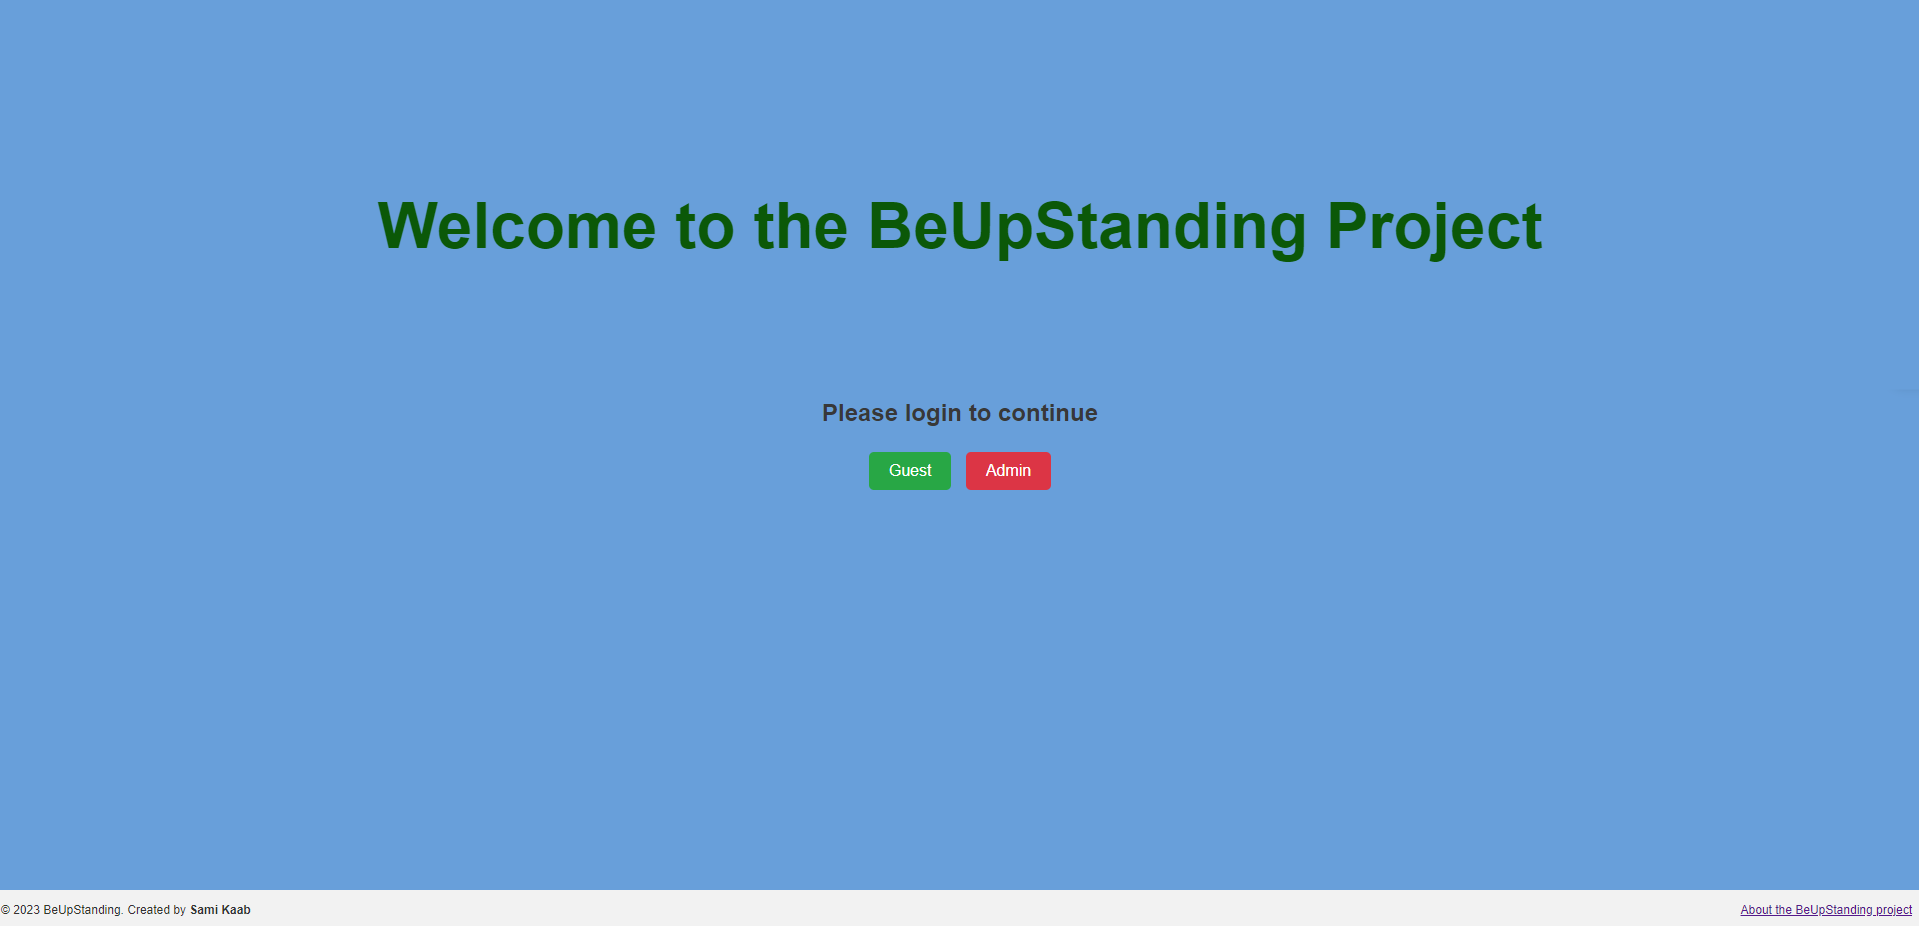
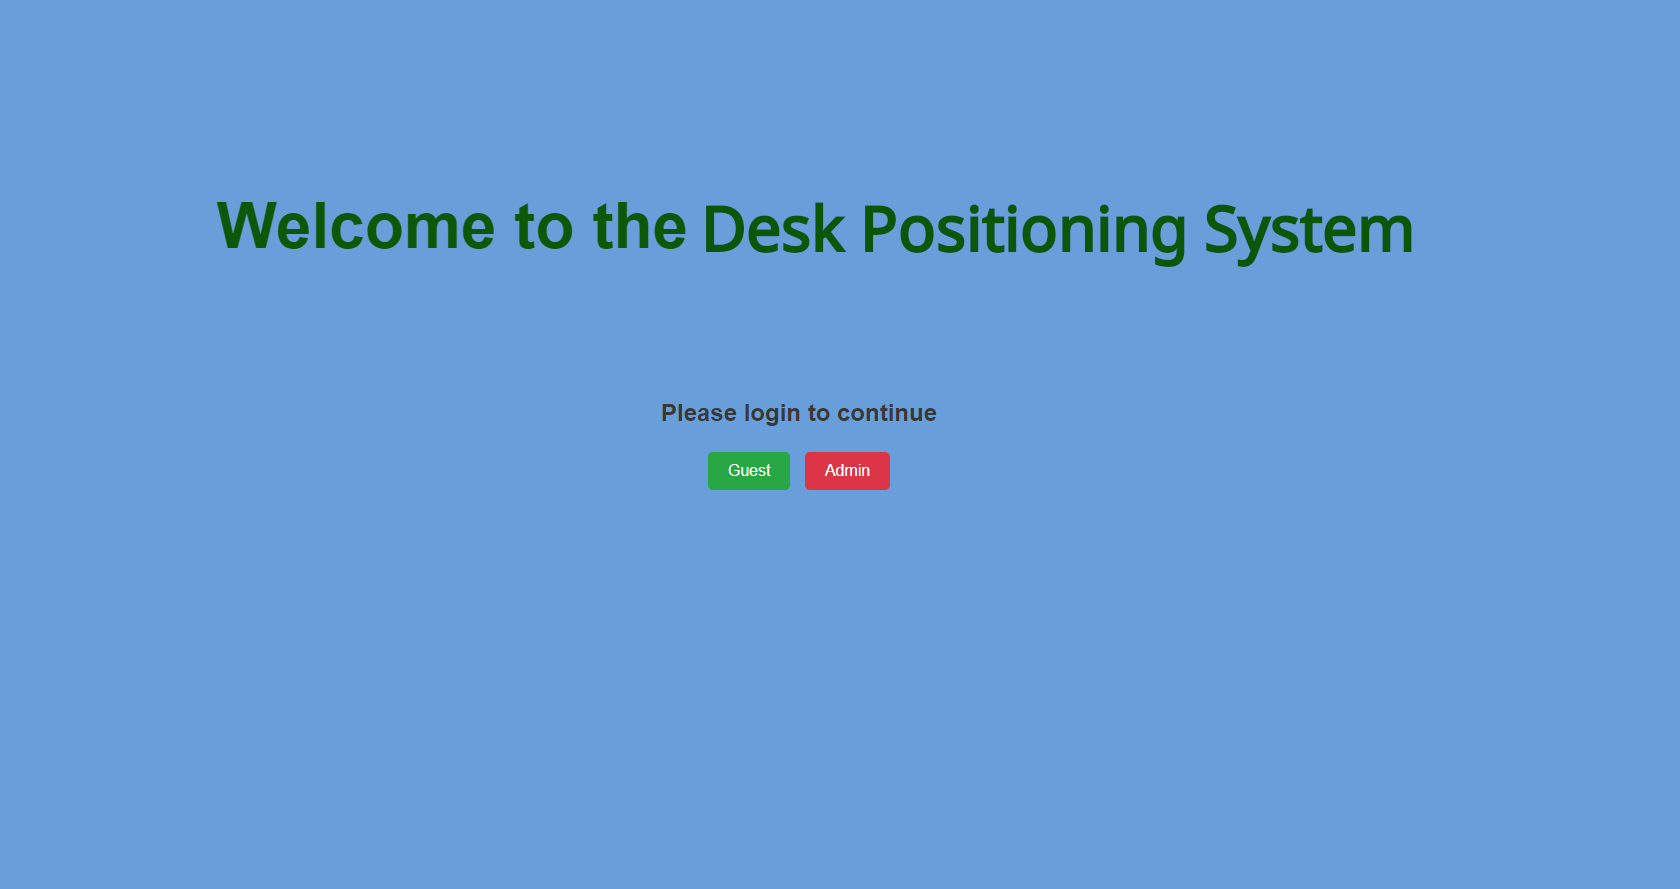
changes name of device in webapp and local url

Changed region(s): [[0.0, 0.9415, 1.0, 1.0], [0.1238, 0.2126, 0.8667, 0.3037], [0.4024, 0.4252, 0.5881, 0.5771]]

diff --git a/Firmware/templates/guest_dashboard.html b/Firmware/templates/guest_dashboard.html
@@ -2,7 +2,7 @@
 <html lang="en">
 <head>
     <meta charset="UTF-8">
-    <title>BeUpStanding</title>
+    <title>Desk Positioning System</title>
     <script src="https://cdn.plot.ly/plotly-latest.min.js"></script>
     <link rel="stylesheet" href="{{ url_for('static', filename='css/guest_dashboard_styles.css') }}">
     <link rel="stylesheet" href="https://cdnjs.cloudflare.com/ajax/libs/font-awesome/6.4.0/css/all.min.css">
@@ -12,7 +12,7 @@
 <body>
     <header>
         <h1>
-            <button id="Home">BeUpStanding</button>
+            <button id="Home">Desk Positioning System</button>
             <!--redirect to home page-->
             <script>
                 document.getElementById("Home").onclick = function () {
@@ -95,7 +95,7 @@
     <!-- end of the form -->
     <footer>
         <div class="footer-content">
-            <p>&copy; 2023 BeUpStanding. Created by <span class="author-name">Sami Kaab</span><a  class="about" href="https://www.beupstanding.com.au/about-us">About the BeUpstanding project</a></p>
+            <p><a  class="about" href="https://github.com/NeuroRehack/Desk-Positioning-System">About the Desk Positioning System</a></p>
         </div>
     </footer>
 </body>

diff --git a/Firmware/templates/admin_dashboard.html b/Firmware/templates/admin_dashboard.html
@@ -2,7 +2,7 @@
 <html lang="en">
 <head>
     <meta charset="UTF-8">
-    <title>BeUpStanding</title>
+    <title>Desk Positioning System</title>
     <script src="https://cdn.plot.ly/plotly-latest.min.js"></script>
     <link rel="stylesheet" href="{{ url_for('static', filename='css/styles.css') }}">
     <link rel="stylesheet" href="https://cdnjs.cloudflare.com/ajax/libs/font-awesome/6.4.0/css/all.min.css">
@@ -11,7 +11,7 @@
 <body>
     <header>
         <h1>
-            <button id="Home">BeUpStanding</button>
+            <button id="Home">Desk Positioning System</button>
             <!--redirect to home page-->
             <script>
                 document.getElementById("Home").onclick = function () {
@@ -229,7 +229,7 @@
     <!-- end of the form -->
     <footer>
         <div class="footer-content">
-            <p>&copy; 2023 BeUpStanding. Created by <span class="author-name">Sami Kaab</span><a  class="about" href="https://www.beupstanding.com.au/about-us">About the BeUpstanding project</a></p>
+            <p><a  class="about" href="https://github.com/NeuroRehack/Desk-Positioning-System">About the Desk Positioning System</a></p>
         </div>
     </footer>
 </body>

diff --git a/Firmware/templates/login.html b/Firmware/templates/login.html
@@ -3,14 +3,14 @@
 <head>
     <meta charset="UTF-8">
     <meta name="viewport" content="width=device-width, initial-scale=1.0">
-    <title>BeUpStanding Login Page</title>
+    <title>Desk Positioning System Login Page</title>
     <link rel="stylesheet" href="{{ url_for('static', filename='css/login_styles.css') }}">
 </head>
 <body>
 
     <!-- Prettified welcome message -->
     <div id = "welcome-message">
-        <h1>Welcome to the BeUpStanding Project</h1>
+        <h1>Welcome to the Desk Positioning System</h1>
     </div>
     <div id="login-container">
         <h2 id = "login-message">Please login to continue</h2>
@@ -20,7 +20,7 @@
     <!-- end of the form -->
     <footer>
         <div class="footer-content">
-            <p>&copy; 2023 BeUpStanding. Created by <span class="author-name">Sami Kaab</span><a class="about" href="https://www.beupstanding.com.au/about-us">About the BeUpStanding project</a></p>
+            <p><a  class="about" href="https://github.com/NeuroRehack/Desk-Positioning-System">About the Desk Positioning System</a></p>
         </div>
     </footer>
      <!-- Admin password overlay -->

diff --git a/Firmware/templates/wifi_settings.html b/Firmware/templates/wifi_settings.html
@@ -2,13 +2,13 @@
 <html lang="en">
 <head>
     <meta charset="UTF-8">
-    <title>BeUpStanding</title>
+    <title>Desk Positioning System</title>
     <link rel="stylesheet" href="{{ url_for('static', filename='css/wifi_setting_styles.css') }}">
 </head>
 <body>
     <header>
         <h1>
-            <button id="Home">BeUpStanding</button>
+            <button id="Home">Desk Positioning System</button>
             <script>
                 document.getElementById("Home").onclick = function () {
                     location.href = "/";
@@ -86,7 +86,7 @@
 
     <footer>
         <div class="footer-content">
-            <p>&copy; 2023 BeUpStanding. Created by <span class="author-name">Sami Kaab</span><a class="about" href="https://www.beupstanding.com.au/about-us">About the BeUpStanding project</a></p>
+            <p><a  class="about" href="https://github.com/NeuroRehack/Desk-Positioning-System">About the Desk Positioning System</a></p>
         </div>
     </footer>
 </body>

diff --git a/Firmware/static/css/styles.css b/Firmware/static/css/styles.css
@@ -14,6 +14,7 @@ header {
     display: flex;
     justify-content: space-between;
     align-items: center;
+    
 }
 
 h1 {
@@ -26,12 +27,15 @@ h1 {
     padding: 0.5%;
     display: flex;
     justify-content: space-between;
+    flex-grow: 1;
     align-items: center;
     border: none;
     cursor: pointer;
     text-decoration: none;
     font-size: 1.2em;
     font-weight: bold;
+    white-space: nowrap;
+
 
 }
 .button-container {

diff --git a/Firmware/static/css/guest_dashboard_styles.css b/Firmware/static/css/guest_dashboard_styles.css
@@ -32,6 +32,8 @@ h1 {
     text-decoration: none;
     font-size: 1.2em;
     font-weight: bold;
+    white-space: nowrap;
+
 
 }
 .button-container {

diff --git a/Firmware/static/css/view_dashboard_styles.css b/Firmware/static/css/view_dashboard_styles.css
@@ -32,6 +32,8 @@ h1 {
     text-decoration: none;
     font-size: 1.2em;
     font-weight: bold;
+    white-space: nowrap;
+
 
 }
 .button-container {

diff --git a/Analysis/main.py b/Analysis/main.py
@@ -1,8 +1,8 @@
 """
-This script is the main entry point for the analysis of the Standup data. It reads the data from the Standup data files, processes the data, and generates the analysis results and plots. 
+This script is the main entry point for the analysis of the data. It processes the data, and generates the analysis results and plots. 
 The analysis results include the percentage of time spent sitting and standing, the number of transitions between sitting and standing, the number of transitions from present to absent, 
 and the number of bouts of sitting and standing. 
-The plots include the time series plot of the Standup data, the transitions between sitting and standing, the transitions from present to absent, 
+The plots include the time series plot of the  data, the transitions between sitting and standing, the transitions from present to absent, 
 the bouts of sitting and standing, the workdays, the time spent at the desk, and the percentage of time spent sitting and standing.
 
 Author: Sami Kaab

diff --git a/Analysis/plot_standup_data.py b/Analysis/plot_standup_data.py
@@ -1,5 +1,5 @@
 """
-This script is used to plot the standup data from the data frame between the start and end datetime
+This script is used to plot the data between the start and end datetime
 
 Author: Sami Kaab
 Date: 5/12/2023
